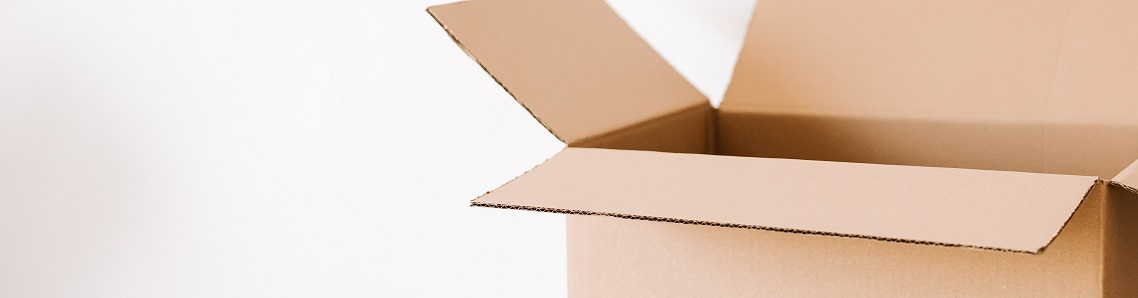
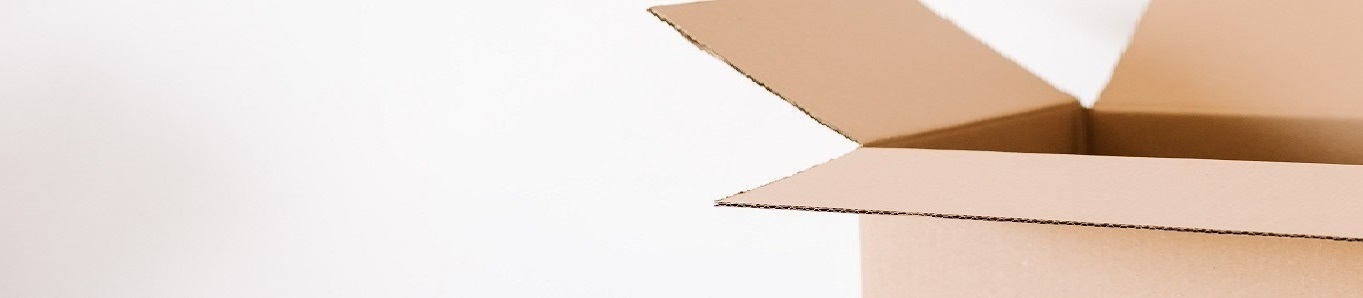
Removals header pic updated; Removals toggle slider with binding; Installed 'ng-toggle-button';

diff --git a/Floem_AppClient/src/app/app-core/form/form.component.html b/Floem_AppClient/src/app/app-core/form/form.component.html
@@ -10,49 +10,54 @@
     </div>
     <form [formGroup]="form1">
       <ng-template matStepLabel>Dimensions</ng-template>
-      <div class="row">
-        <mat-form-field class="col-lg-3" appearance="fill">
-          <mat-label>Units</mat-label>
-          <mat-select formControlName="units" [(value)]="this.quoteModel.units">
-            <mat-option *ngFor="let key of keys" [value]="key">
-              {{ key }}
-            </mat-option>
-          </mat-select>
-        </mat-form-field>
-      </div>
-      <div class="row">
-        <div class="col-lg-3">
-          <mat-form-field>
-            <mat-label>Bathroom width ({{ quoteModel.units }})</mat-label>
-            <input
-              matInput
-              placeholder="Width"
-              formControlName="width"
-              required
-            />
+      <div class="formContainer">
+        <div class="row">
+          <mat-form-field class="col-lg-3" appearance="fill">
+            <mat-label>Units</mat-label>
+            <mat-select
+              formControlName="units"
+              [(value)]="this.quoteModel.units"
+            >
+              <mat-option *ngFor="let key of keys" [value]="key">
+                {{ key }}
+              </mat-option>
+            </mat-select>
           </mat-form-field>
         </div>
-        <div class="col-lg-3">
-          <mat-form-field>
-            <mat-label>Bathroom height ({{ quoteModel.units }})</mat-label>
-            <input
-              matInput
-              placeholder="Height"
-              formControlName="height"
-              required
-            />
-          </mat-form-field>
-        </div>
-        <div class="col-lg-3">
-          <mat-form-field>
-            <mat-label>Bathroom depth ({{ quoteModel.units }})</mat-label>
-            <input
-              matInput
-              placeholder="Depth"
-              formControlName="depth"
-              required
-            />
-          </mat-form-field>
+        <div class="row">
+          <div class="col-lg-3">
+            <mat-form-field>
+              <mat-label>Bathroom width ({{ quoteModel.units }})</mat-label>
+              <input
+                matInput
+                placeholder="Width"
+                formControlName="width"
+                required
+              />
+            </mat-form-field>
+          </div>
+          <div class="col-lg-3">
+            <mat-form-field>
+              <mat-label>Bathroom height ({{ quoteModel.units }})</mat-label>
+              <input
+                matInput
+                placeholder="Height"
+                formControlName="height"
+                required
+              />
+            </mat-form-field>
+          </div>
+          <div class="col-lg-3">
+            <mat-form-field>
+              <mat-label>Bathroom depth ({{ quoteModel.units }})</mat-label>
+              <input
+                matInput
+                placeholder="Depth"
+                formControlName="depth"
+                required
+              />
+            </mat-form-field>
+          </div>
         </div>
       </div>
       <div>
@@ -74,16 +79,28 @@
     </div>
     <form [formGroup]="form2">
       <ng-template matStepLabel>Removals</ng-template>
+      <div class="formContainer">
+        <div class="row">
+          <div class="col-lg-3">
+            <ng-toggle
+              [value]="this.quoteModel.removals"
+              [color]="{
+                unchecked: '#dcdcdc',
+                checked: '#9db946'
+              }"
+              [labels]="{ checked: 'Yes', unchecked: 'No' }"
+              [speed]="300"
+              [width]="100"
+              [height]="40"
+              [margin]="15"
+              [fontSize]="15"
+            >
+            </ng-toggle>
+            <mat-label class="col-lg-1 ms-2">Removals</mat-label>
+          </div>
+        </div>
+      </div>
 
-      <mat-form-field>
-        <mat-label>Test</mat-label>
-        <input
-          matInput
-          placeholder="Amount"
-          formControlName="amount"
-          required
-        />
-      </mat-form-field>
       <div>
         <button type="button" class="btn btn-secondary" matStepperPrevious>
           Back

diff --git a/Floem_AppClient/src/app/app-core/app-core.module.ts b/Floem_AppClient/src/app/app-core/app-core.module.ts
@@ -8,6 +8,7 @@ import { MatInputModule } from '@angular/material/input';
 import { MatButtonModule } from '@angular/material/button';
 import { MatSelectModule } from '@angular/material/select';
 import { MatListModule } from '@angular/material/list';
+import { NgToggleModule } from 'ng-toggle-button';
 
 import { FooterComponent } from './footer/footer.component';
 import { HeaderComponent } from './header/header.component';
@@ -15,6 +16,7 @@ import { FormComponent } from './form/form.component';
 
 @NgModule({
   imports: [
+    NgToggleModule,
     BrowserModule,
     AppRoutingModule,
     MatStepperModule,

diff --git a/Floem_AppClient/src/app/app-core/form/form.component.css b/Floem_AppClient/src/app/app-core/form/form.component.css
@@ -2,10 +2,6 @@
   margin-top: 8px;
 }
 
-.mat-form-field {
-  margin-top: 16px;
-}
-
 .stepHeader {
   margin-top: 5px;
   height: 100px;
@@ -28,4 +24,10 @@ h4 {
 
 button {
   margin: 5px;
+}
+
+.formContainer {
+  margin-top: 20px;
+  margin-left: 20px;
+  min-height: 100px;
 }

diff --git a/Floem_AppClient/src/app/app-core/form/form.component.ts b/Floem_AppClient/src/app/app-core/form/form.component.ts
@@ -35,7 +35,7 @@ export class FormComponent {
   });
 
   form2 = this._formBuilder.group({
-    amount: ['', Validators.required],
+    removals: [this.quoteModel.removals, Validators.required],
   });
 
   form3 = this._formBuilder.group({
